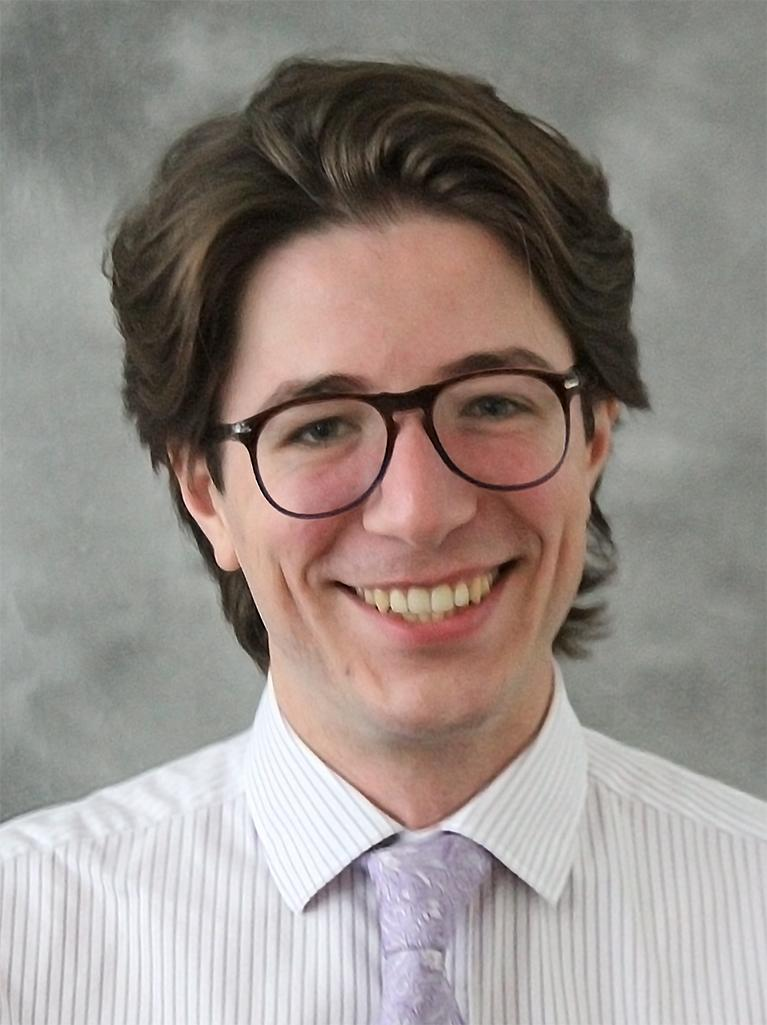
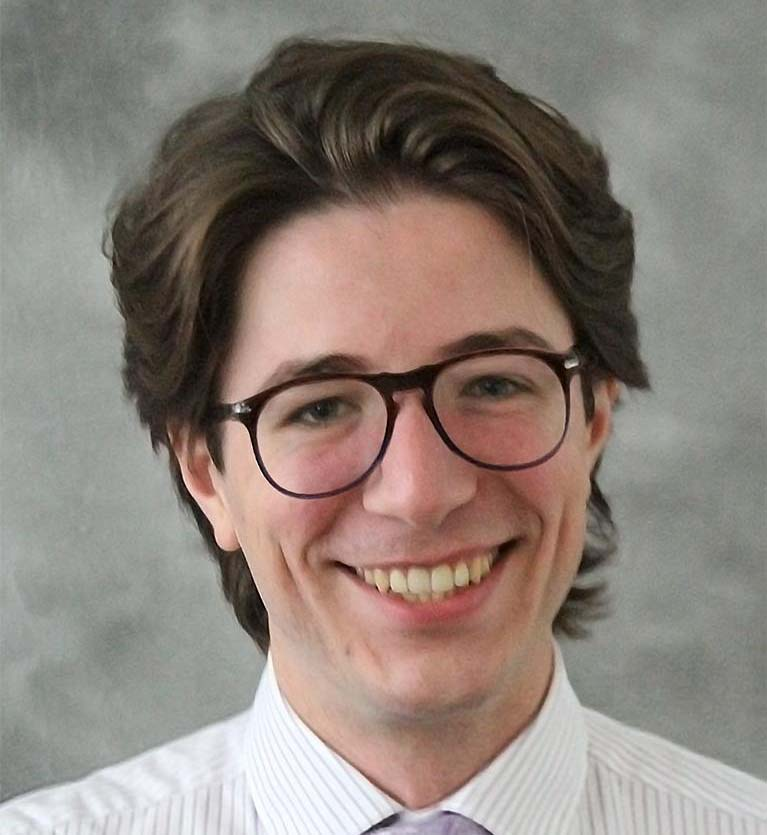
website tweaks
adjust some whitespace
put Xander on masthead
fix alexpap.jpg jpeg error
resize images so they are all circles
remove bullet points in some places
make font differences more clear in some headings
remove old commenteed out html
minor wording changes
move pdf.png

diff --git a/www/index.html b/www/index.html
@@ -18,10 +18,24 @@
         <script src="css/highlight/highlight.pack.js"></script>
         <script>hljs.initHighlightingOnLoad();</script>
 
-<style type="text/css">
+		<style type="text/css">
 body {
     position: relative;
     min-height: 2000px;
+}
+
+h3 {
+	font-size: 1.5rem;
+}
+
+h4 {
+	font-size: 1.2rem;
+	margin-top: 10px;
+}
+
+.nobullets {
+	list-style-type: none;
+	padding-left: 0;
 }
 
 .jumbotron {
@@ -48,12 +62,6 @@ body {
 p > code.hljs { display: inline; }
 
         </style>
-
-        <!-- HTML5 shim and Respond.js for IE8 support of HTML5 elements and media queries -->
-        <!--[if lt IE 9]>
-            <script src="https://oss.maxcdn.com/html5shiv/3.7.2/html5shiv.min.js"></script>
-            <script src="https://oss.maxcdn.com/respond/1.4.2/respond.min.js"></script>
-        <![endif]-->
     </head>
 
 
@@ -95,7 +103,6 @@ p > code.hljs { display: inline; }
                 <h1 class="text-center" style="margin-bottom:20px"> WebGazer.js </h1>
                 <h2 class="text-center" style="margin-bottom:0px"> Democratizing Webcam Eye Tracking on the Browser</h2>
             </div>
-            <hr class="featurette-divider">
             <div id="description" class="container pad">
                 <p class="text-justify">
                     WebGazer.js is an eye tracking library that uses common webcams to infer the eye-gaze locations of web visitors on a page in real time. The eye tracking model it contains self-calibrates by watching web visitors interact with the web page and trains a mapping between the features of the eye and positions on the screen. WebGazer.js is written entirely in JavaScript and with only a few lines of code can be integrated in any website that wishes to better understand
@@ -115,12 +122,13 @@ p > code.hljs { display: inline; }
                     </div>
                     <div class="col-sm-5">
                         <div>
-                            <p class="text-left padright" style="font-size:18px">Real time gaze prediction on most major browsers</p>
-                            <p class="text-left padright" style="font-size:18px">No special hardware - WebGazer.js uses common webcams</p>
+                            <p class="text-left padright" style="font-size:18px">Real time gaze prediction on most common browsers</p>
+                            <p class="text-left padright" style="font-size:18px">No special hardware; WebGazer.js uses your webcam</p>
                             <p class="text-left padright" style="font-size:18px">Self-calibration from clicks and cursor movements</p>
                             <p class="text-left padright" style="font-size:18px">Easy to integrate with a few lines of JavaScript</p>
                             <p class="text-left padright" style="font-size:18px">Swappable components for eye detection</p>
                             <p class="text-left padright" style="font-size:18px">Multiple gaze prediction models</p>
+                            <p class="text-left padright" style="font-size:18px">Continually supported and open source for 4+ years</p>
                         </div>
                     </div>
                 </div>
@@ -225,7 +233,7 @@ prediction.y; //now always in the bounds of the viewport
         <hr class="featurette-divider">
         <div id="support" class="container pad">
             <h2 class="text-center">Support</h2>
-            <p class="text-left" pad>
+            <p class="text-left pad">
                 WebGazer.js uses:
                 <ul>
                     <li> <a href="https://developer.mozilla.org/en-US/docs/Web/API/MediaDevices/getUserMedia">getUserMedia/Stream API</a> to get access to the webcam, which supports <a href="http://caniuse.com/#feat=stream">these browsers</a>. </li>
@@ -271,19 +279,19 @@ prediction.y; //now always in the bounds of the viewport
 
         <hr class="featurette-divider">
         <div id="download" class="container pad">
-            <h2 class="text-center">Download Instructions</h2>
+            <h2 class="text-center">Download Options</h2>
             <div class="row">
                 <div class="col-lg-6">
-                    <h3 class="pad">Download</h3>
+                    <h4 class="pad">Download</h3>
                     <form method="get" action="./webgazer.js">
                         <button class="btn btn-primary btn-lg" type="submit"><span class="glyphicon glyphicon-cloud-download" aria-hidden="true"></span> Download WebGazer.js</button>
                     </form>
                     <br>
-                    <h3 class="pad">Dataset</h3>
+                    <h4 class="pad">Dataset</h3>
                     A webcam video dataset for training and evaluating eye tracking models. Please see the <a href="./data">documentation download link</a>.
                 </div>
                 <div class="col-lg-6">
-                    <h3 class="pad">Create from Source</h3>
+                    <h4 class="pad">Build from source</h3>
                     The GitHub repository can be found <a href="https://github.com/brownhci/WebGazer.git">here</a>.
                     <pre><code class="bash"># Ensure NodeJS is downloaded: https://nodejs.org/en/download/
 npm install -g grunt-cli
@@ -304,10 +312,10 @@ grunt
             <div class="row">
                 <div class="col-lg-4">
                     <img src="media/example/empty.png" alt="Empty Webpage Demo" width="300" height="250">
-                    <h4 class="pad">WebGazer.js on an Empty Webpage with calibration</h4>
-                    <p class="text-justify">See how easy it is to integrate WebGazer.js on any webpage. With just a few clicks you will get real-time predictions. Follow the popup instructions to click through 9 calibration points on the screen whilst looking at the cursor.
+                    <h4 class="pad">Calibration on Empty Page</h4>
+                    <p>See how easy it is to integrate WebGazer.js on any webpage. With just a few clicks you will get real-time predictions. Follow the popup instructions to click through 9 calibration points on the screen whilst looking at the cursor.
                         <form method="get" action="calibration.html">
-                        <button class="btn btn-primary" type="submit">Try Live!</button>
+                        <button class="btn btn-primary" type="submit">Try Live Demo</button>
                     </form>
                     </p>
                 </div>
@@ -316,7 +324,7 @@ grunt
                     <h4 class="pad">Ball Collision Game</h4>
                     <p class="text-justify">Move the orange ball with your eyes and create collisions with the blue balls. Train WebGazer.js by clicking in various locations within the screen, while looking at your cursor.
                         <form method="get" action="collision.html">
-                        <button class="btn btn-primary" type="submit">Try Live!</button>
+                        <button class="btn btn-primary" type="submit">Try Live Demo</button>
                     </form>
                     </p>
                 </div>
@@ -325,7 +333,7 @@ grunt
                     <h4 class="pad">WebGazer on Search Engines</h4>
                     <p class="text-justify">We have created SearchGazer.js, a library that incorporates WebGazer in Search Engines such as Bing and Google.
                         <form method="get" action="./search">
-                        <button class="btn btn-primary" type="submit">Try SearchGazer.js!</button>
+                        <button class="btn btn-primary" type="submit">Try SearchGazer.js</button>
                     </form>
                     </p>
                 </div>
@@ -339,19 +347,19 @@ grunt
             <p><i><b>Note: </b>The current iteration of WebGazer no longer corresponds with the WebGazer described in the following publications and which can be found <a href="https://github.com/brownhci/WebGazer/tree/2a4a70cb49b2d568a09362e1b52fd3bd025cd38d">here</a>.</i></p>
             <div class="row">
             <div class="col-lg-1">
-                <a href="https://jeffhuang.com/Final_WebGazer_IJCAI16.pdf"><img src="pdf.png"></a>
+                <a href="https://jeffhuang.com/Final_WebGazer_IJCAI16.pdf"><img src="media/pdf.png"></a>
             </div>
             <div class="col-lg-11">
-            <p>If you use WebGazer.js please cite the following papers:</p>
+            <p>If you use WebGazer.js please cite:</p>
             <p>
             <code>
                 @inproceedings{papoutsaki2016webgazer,<br>
-                author     = {Alexandra Papoutsaki and Patsorn Sangkloy and James Laskey and Nediyana Daskalova and Jeff Huang and James Hays},<br>
-                title      = {WebGazer: Scalable Webcam Eye Tracking Using User Interactions},<br>
-                booktitle  = {Proceedings of the 25th International Joint Conference on Artificial Intelligence (IJCAI)},<br>
-                pages      = {3839--3845},<br>
-                year       = {2016},<br>
-                organization={AAAI}<br>
+                &nbsp; author     = {Alexandra Papoutsaki and Patsorn Sangkloy and James Laskey and Nediyana Daskalova and Jeff Huang and James Hays},<br>
+                &nbsp; title      = {WebGazer: Scalable Webcam Eye Tracking Using User Interactions},<br>
+                &nbsp; booktitle  = {Proceedings of the 25th International Joint Conference on Artificial Intelligence (IJCAI)},<br>
+                &nbsp; pages      = {3839--3845},<br>
+                &nbsp; year       = {2016},<br>
+                &nbsp; organization={AAAI}<br>
                 }
             </code>
             </p>
@@ -359,17 +367,18 @@ grunt
             </div>
             <div class="row">
             <div class="col-lg-1">
-                <a href="https://jeffhuang.com/Final_SearchGazer_CHIIR17.pdf"><img src="pdf.png"></a>
+                <a href="https://jeffhuang.com/Final_SearchGazer_CHIIR17.pdf"><img src="media/pdf.png"></a>
             </div>
             <div class="col-lg-11">
             <p>If you use <a href="./search">SearchGazer.js</a> please cite the following paper:</p>
             <p>
-            <code>@inproceedings{papoutsaki2017searchgazer,<br>
-                author = {Alexandra Papoutsaki and James Laskey and Jeff Huang},<br>
-                title = {SearchGazer: Webcam Eye Tracking for Remote Studies of Web Search},<br>
-                booktitle = {Proceedings of the ACM SIGIR Conference on Human Information Interaction \& Retrieval (CHIIR)},<br>
-                year = {2017},<br>
-                organization={ACM}<br>
+            <code>
+            	@inproceedings{papoutsaki2017searchgazer,<br>
+                &nbsp; author = {Alexandra Papoutsaki and James Laskey and Jeff Huang},<br>
+                &nbsp; title = {SearchGazer: Webcam Eye Tracking for Remote Studies of Web Search},<br>
+                &nbsp; booktitle = {Proceedings of the ACM SIGIR Conference on Human Information Interaction \& Retrieval (CHIIR)},<br>
+                &nbsp; year = {2017},<br>
+                &nbsp; organization={ACM}<br>
                 }
             </code>
             </p>
@@ -377,18 +386,19 @@ grunt
             </div>
             <div class="row">
             <div class="col-lg-1">
-                <a href="https://jeffhuang.com/Final_EyeTyper_ETRA18.pdf"><img src="pdf.png"></a>
+                <a href="https://jeffhuang.com/Final_EyeTyper_ETRA18.pdf"><img src="media/pdf.png"></a>
             </div>
             <div class="col-lg-11">
             <p>For the <a href="./data">WebGazer webcam dataset</a> and findings about gaze behavior during typing:</p>
             <p>
-            <code>@inproceedings{papoutsaki2018eye,<br>
-                title={The eye of the typer: a benchmark and analysis of gaze behavior during typing},<br>
-                author={Papoutsaki, Alexandra and Gokaslan, Aaron and Tompkin, James and He, Yuze and Huang, Jeff},<br>
-                booktitle={Proceedings of the 2018 ACM Symposium on Eye Tracking Research \& Applications},<br>
-                pages={16},<br>
-                year={2018},<br>
-                organization={ACM}<br>
+            <code>
+            	@inproceedings{papoutsaki2018eye,<br>
+                &nbsp; title={The eye of the typer: a benchmark and analysis of gaze behavior during typing},<br>
+                &nbsp; author={Papoutsaki, Alexandra and Gokaslan, Aaron and Tompkin, James and He, Yuze and Huang, Jeff},<br>
+                &nbsp; booktitle={Proceedings of the 2018 ACM Symposium on Eye Tracking Research \& Applications},<br>
+                &nbsp; pages={16},<br>
+                &nbsp; year={2018},<br>
+                &nbsp; organization={ACM}<br>
                 }
             </code>
             </p>
@@ -399,10 +409,10 @@ grunt
         <hr class="featurette-divider">
         <div id="press" class="container pad">
             <h2 class="text-center">Press</h2>
-            <div class="row">
+            <div class="row pad">
                 <div class="col-lg-6">
-                    <p>A few websites that featured WebGazer.js:</p>
-                    <ul>
+                    <p>Websites that have featured WebGazer.js:</p>
+                    <ul class="nobullets">
                         <li><a href="http://www.cio.com.au/article/601028/web-developers-meet-webgazer-software-turns-webcams-into-eye-trackers/">CIO</a></li>
                         <li><a href="http://www.healthaim.com/exclusive-scientist-alexandra-papoutsaki-on-revolutionary-eye-tracking-technology-webgazer-js-for-using-computers-without-lifting-a-finger/58039">HEALTHAIM</a></li>
                         <li><a href="http://www.i-programmer.info/news/146-uiux/9786-webgazerjs-an-in-browser-eye-tracking-library.html">I Programmer</a></li>
@@ -416,7 +426,7 @@ grunt
                 </div>
                 <div class="col-lg-6">
                 <p>Online discussions in:</p>
-                <ul>
+                <ul class="nobullets">
                     <li><a href="https://news.ycombinator.com/item?id=11770273">Hacker News</a></li>
                     <li><a href="https://www.reddit.com/r/programming/comments/4kyeww/webgazerjs_eye_tracking_library_using_the_webcam/">Reddit Programming</a></li>
                     <li><a href="https://twitter.com/search?f=tweets&vertical=default&q=webgazer">Twitter</a></li>
@@ -427,7 +437,7 @@ grunt
         <hr class="featurette-divider">
         <div id="contact" class="container pad">
             <h2 class="text-center pad">Who We Are</h2>
-            <div class="row">
+            <div class="row pad">
                 <!-- bootstrap has 12 columns, so each person gets part of that 12 cols -->
 
                 <div class="col-lg-2">
@@ -443,8 +453,8 @@ grunt
                     <h4 class="text-center"><a href="https://www.linkedin.com/in/idakdesmet/">Ida De Smet</a></h4>
                 </div>
                 <div class="col-lg-2">
-                    <img class="rounded-circle mx-auto d-block" src="media/people/jack.png" alt="Jack Wong" height="140">
-                    <h4 class="text-center">Jack Wong</h4>
+                    <img class="rounded-circle mx-auto d-block" src="media/people/xander.jpg" alt="Xander Koo" height="140">
+                    <h4 class="text-center"><a href="https://www.linkedin.com/in/xanderkoo/">Jack Wong</a></h4>
                 </div>
                 <div class="col-lg-2">
                     <img class="rounded-circle mx-auto d-block" src="media/people/james.jpg" alt="James Tompkin" height="140">
@@ -455,23 +465,27 @@ grunt
                     <h4 class="text-center"><a href="https://jeffhuang.com">Jeff Huang</a></h4>
                 </div>
             </div>
-            <div class="pad">
-                <h3>Other Collaborators</h3>
-                <ul style="margin-top: 20px">
-                    <li><a href="http://cs.brown.edu/~nediyana">Nediyana Daskalova</a></li>
-                    <li><a href="http://www.cc.gatech.edu/~hays/">James Hays</a></li>
-                    <li>Yuze He</li>
-                    <li>James Laskey</li>
-                    <li><a href="http://www.cc.gatech.edu/~psangklo/">Patsorn Sangkloy</a></li>
-                    <li><a href="https://www.linkedin.com/in/elizabeth-stevenson-9b47a7125/">Elizabeth Stevenson</a></li>
-                    <li><a href="https://cs.brown.edu/~ptunnell/">Preston Tunnell Wilson</a></li>
-                    <li><a href="https://www.linkedin.com/in/xanderkoo/">Xander Koo</a></li>
-                </ul>
-                <h3>Acknowledgements</h3>
-                <p>Webgazer is developed based on the research that is done by Brown University. The work of the calibration example file was developed in the context of a course project with the aim to improve the feedback of WebGazer, proposed by Dr. Gerald Weber and his team Dr. Clemens Zeidler and Kai-Cheung Leung.
-                  <br /><br />
-                  This research is supported by NSF grants IIS-1464061, IIS-1552663, a Seed Award from the Center for Vision Research at Brown University, and the Brown University Salomon Award.
-                </p>
+            <div class="row pad">
+            	<div class="col-lg-6">
+	                <h3>Other Contributors</h3>
+	                <ul style="margin-top: 20px" class="nobullets">
+	                    <li><a href="http://cs.brown.edu/~nediyana">Nediyana Daskalova</a></li>
+	                    <li><a href="http://www.cc.gatech.edu/~hays/">James Hays</a></li>
+	                    <li>Yuze He</li>
+	                    <li>James Laskey</li>
+	                    <li><a href="http://www.cc.gatech.edu/~psangklo/">Patsorn Sangkloy</a></li>
+	                    <li><a href="https://www.linkedin.com/in/elizabeth-stevenson-9b47a7125/">Elizabeth Stevenson</a></li>
+	                    <li><a href="https://cs.brown.edu/~ptunnell/">Preston Tunnell Wilson</a></li>
+	                    <li>Jack Wong</li>
+	                </ul>
+            	</div>
+            	<div class="col-lg-6">
+	                <h3 class="pad">Acknowledgements</h3>
+	                <p>Webgazer is developed based on the research originally done at Brown University, with recent work at Pomona College. The work of the calibration example file was developed in the context of a course project with the aim to improve the feedback of WebGazer, proposed by Dr. Gerald Weber and his team Dr. Clemens Zeidler and Kai-Cheung Leung.
+	                  <br /><br />
+	                  This research is supported by NSF grants IIS-1464061, IIS-1552663, a Seed Award from the Center for Vision Research at Brown University, and the Brown University Salomon Award.
+	                </p>
+	            </div>
             </div>
         </div>
         <hr class="featurette-divider">
